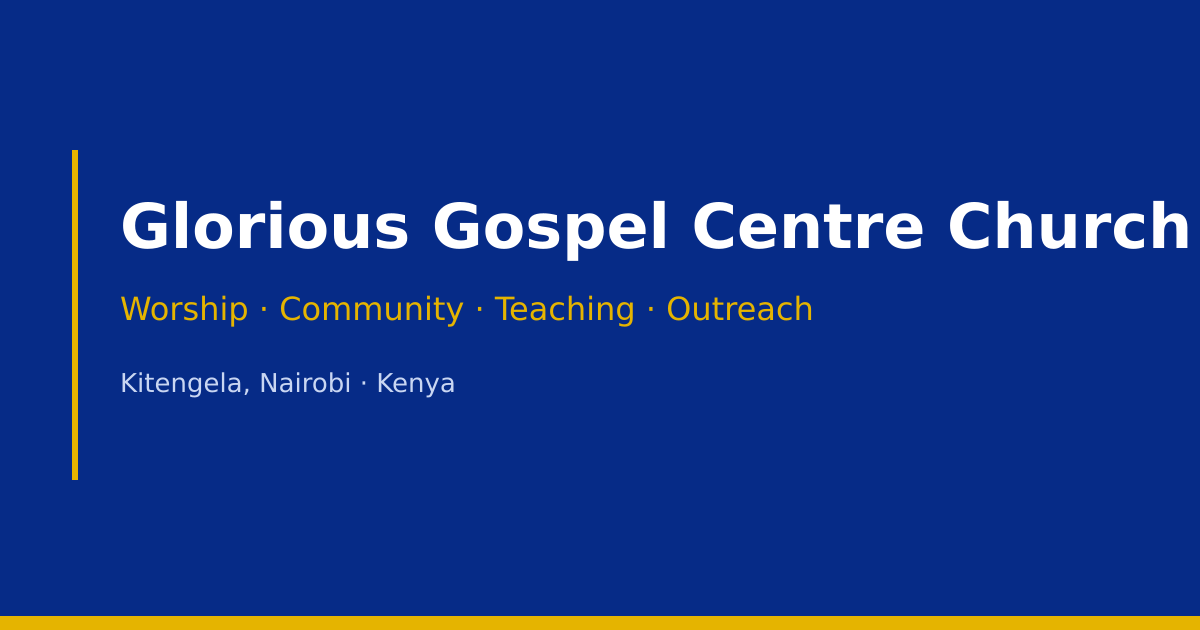
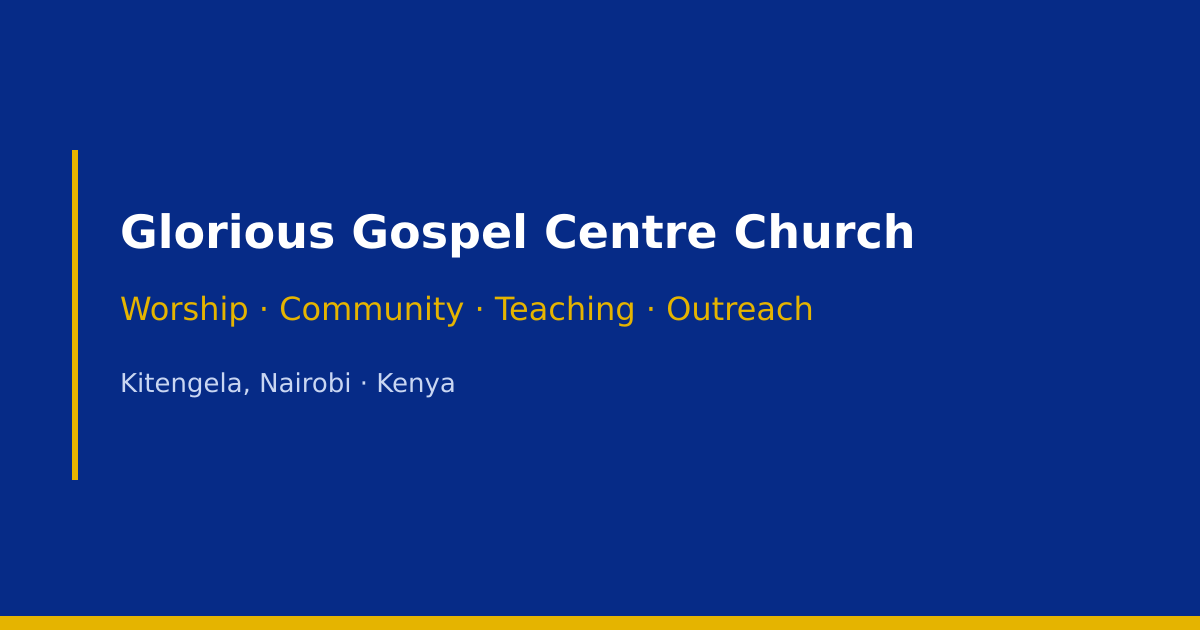
fix(seo): ship default og image and absolute homepage title

Changed region(s): [[0.0925, 0.3016, 1.0, 0.4222]]

diff --git a/tests/unit/seo.test.ts b/tests/unit/seo.test.ts
@@ -159,13 +159,42 @@ describe("site url and absolute titles", () => {
     delete (process.env as Record<string, string | undefined>).VERCEL_URL;
     // @ts-expect-error - NODE_ENV is readonly in types but writable at runtime
     process.env.NODE_ENV = "production";
-    expect(() => resolveSiteUrl()).toThrow(/NEXT_PUBLIC_SITE_URL/);
-    if (prevUrl !== undefined) process.env.NEXT_PUBLIC_SITE_URL = prevUrl;
-    else delete (process.env as Record<string, string | undefined>).NEXT_PUBLIC_SITE_URL;
-    if (prevVercel !== undefined) process.env.VERCEL_URL = prevVercel;
-    else delete (process.env as Record<string, string | undefined>).VERCEL_URL;
-    // @ts-expect-error - NODE_ENV is readonly in types but writable at runtime
-    process.env.NODE_ENV = prevNode ?? "test";
+    try {
+      expect(() => resolveSiteUrl()).toThrow(/NEXT_PUBLIC_SITE_URL/);
+    } finally {
+      if (prevUrl !== undefined) process.env.NEXT_PUBLIC_SITE_URL = prevUrl;
+      else delete (process.env as Record<string, string | undefined>).NEXT_PUBLIC_SITE_URL;
+      if (prevVercel !== undefined) process.env.VERCEL_URL = prevVercel;
+      else delete (process.env as Record<string, string | undefined>).VERCEL_URL;
+      // @ts-expect-error - NODE_ENV is readonly in types but writable at runtime
+      process.env.NODE_ENV = prevNode ?? "test";
+    }
+  });
+  it("uses the configured site url", () => {
+    const prev = process.env.NEXT_PUBLIC_SITE_URL;
+    try {
+      process.env.NEXT_PUBLIC_SITE_URL = "https://example.org/";
+      expect(resolveSiteUrl()).toBe("https://example.org");
+    } finally {
+      if (prev === undefined) delete process.env.NEXT_PUBLIC_SITE_URL;
+      else process.env.NEXT_PUBLIC_SITE_URL = prev;
+    }
+  });
+
+
+  it("falls back to the vercel url", () => {
+    const prevUrl = process.env.NEXT_PUBLIC_SITE_URL;
+    const prevVercel = process.env.VERCEL_URL;
+    try {
+      delete process.env.NEXT_PUBLIC_SITE_URL;
+      process.env.VERCEL_URL = "my-project.vercel.app";
+      expect(resolveSiteUrl()).toBe("https://my-project.vercel.app");
+    } finally {
+      if (prevUrl === undefined) delete process.env.NEXT_PUBLIC_SITE_URL;
+      else process.env.NEXT_PUBLIC_SITE_URL = prevUrl;
+      if (prevVercel === undefined) delete process.env.VERCEL_URL;
+      else process.env.VERCEL_URL = prevVercel;
+    }
   });
 
   it("produces an absolute title when asked", () => {
